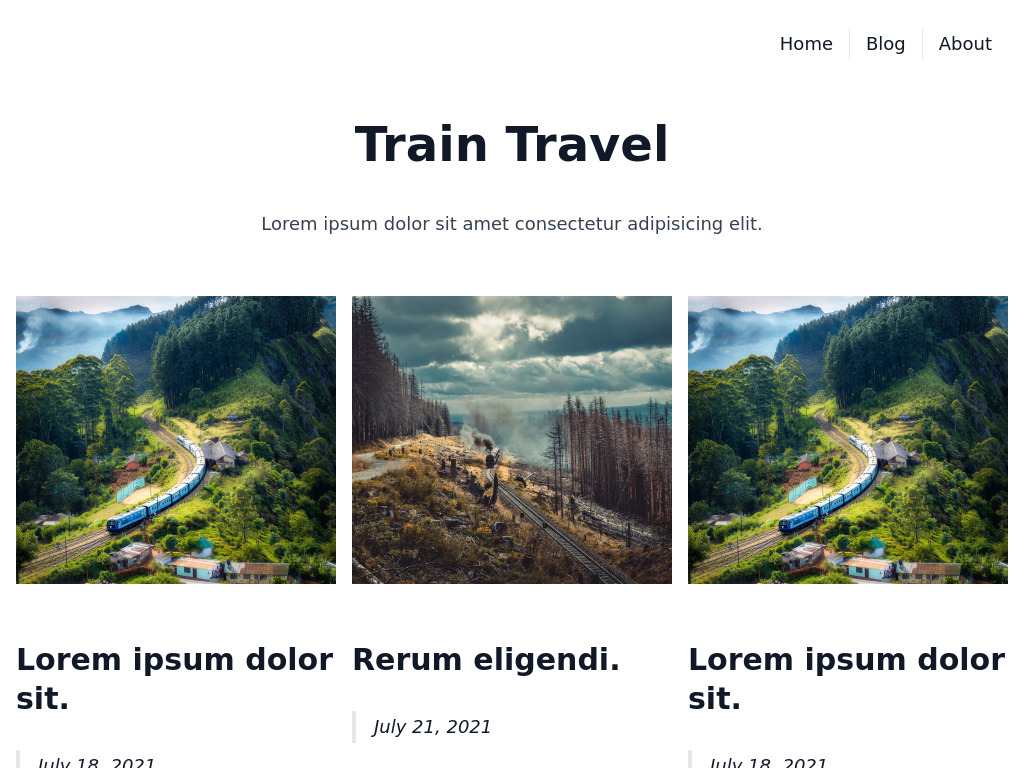
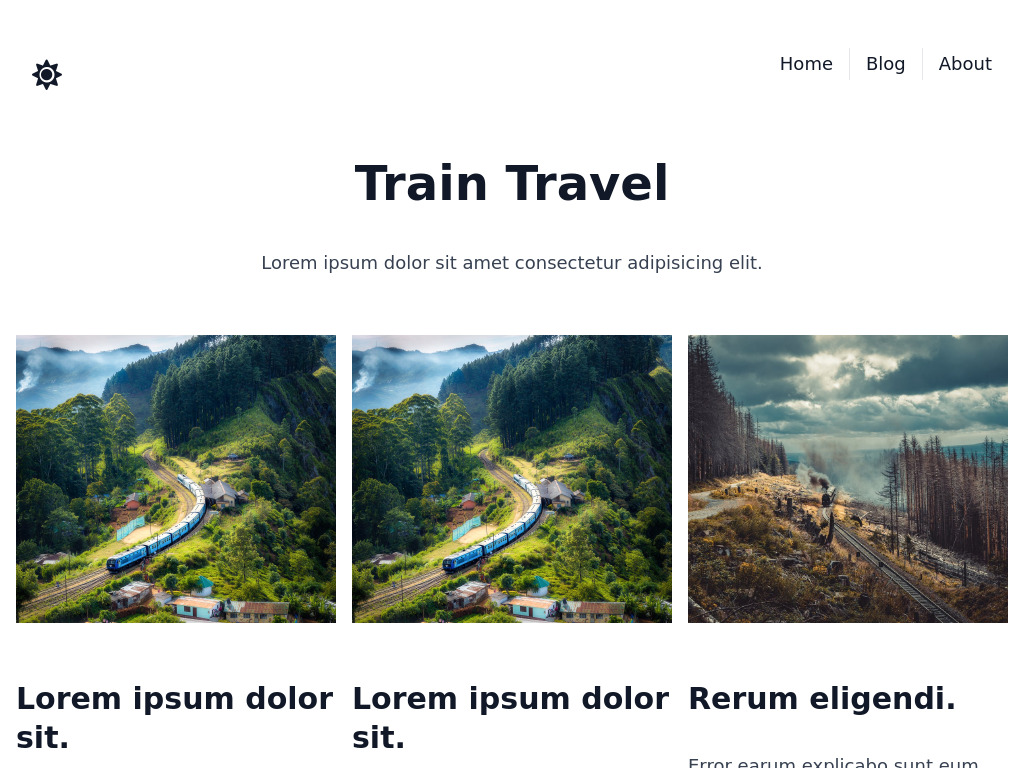
add thmb and update readme

diff --git a/README.md b/README.md
@@ -2,7 +2,7 @@
 1 home page, 2 collection pages.
 7 subpages in the example, add more subpages by adding the data to the JSON.
 
-[Demo](https://zummon.github.io/website-template/nature-craft/html/index.html)
+Preview [HTML](https://zummon.github.io/website-template/nature-craft/html/index.html)
 
 Download 
 [HTML](https://downgit.github.io/#/home?url=https://github.com/zummon/website-template/tree/master/nature-craft/html), 
@@ -15,7 +15,7 @@ Download
 
 Scroll animation
 
-[Demo](https://zummon.github.io/website-template/sunlight-interior/html/index.html)
+Preview [HTML](https://zummon.github.io/website-template/sunlight-interior/html/index.html)
 
 Download 
 [HTML](https://downgit.github.io/#/home?url=https://github.com/zummon/website-template/tree/master/sunlight-interior/html), 
@@ -26,7 +26,9 @@ Download
 home, about, blog page. 
 4 subpages in the example and add more subpages by writing markdowns.
 
-[Demo](https://zummon.github.io/website-template/train-travel/html/index.html)
+Dark mode
+
+Preview [HTML](https://zummon.github.io/website-template/train-travel/html/index.html)
 
 Download 
 [HTML](https://downgit.github.io/#/home?url=https://github.com/zummon/website-template/tree/master/train-travel/html), 
@@ -36,7 +38,7 @@ Download
 ## Foody Sweety
 home page, 3 subpages in the example and add more subpages by writing markdowns.
 
-[Demo](https://zummon.github.io/website-template/foody-sweety/html/index.html)
+Preview [HTML](https://zummon.github.io/website-template/foody-sweety/html/index.html)
 
 Download 
 [HTML](https://downgit.github.io/#/home?url=https://github.com/zummon/website-template/tree/master/foody-sweety/html), 
@@ -48,4 +50,4 @@ Download
 
 Useful tool to help downloading the template - [DownGit](https://downgit.github.io/) by [Minhas Kamal](https://stackoverflow.com/users/4684058/minhas-kamal) from the [issue](https://stackoverflow.com/questions/7106012/)
 
-Useful sources to build websites - [design-resources-for-developers](https://github.com/bradtraversy/design-resources-for-developers) by Traversy Media
+Useful sources to build websites - [Design Resources for Developers](https://github.com/bradtraversy/design-resources-for-developers) by Traversy Media
